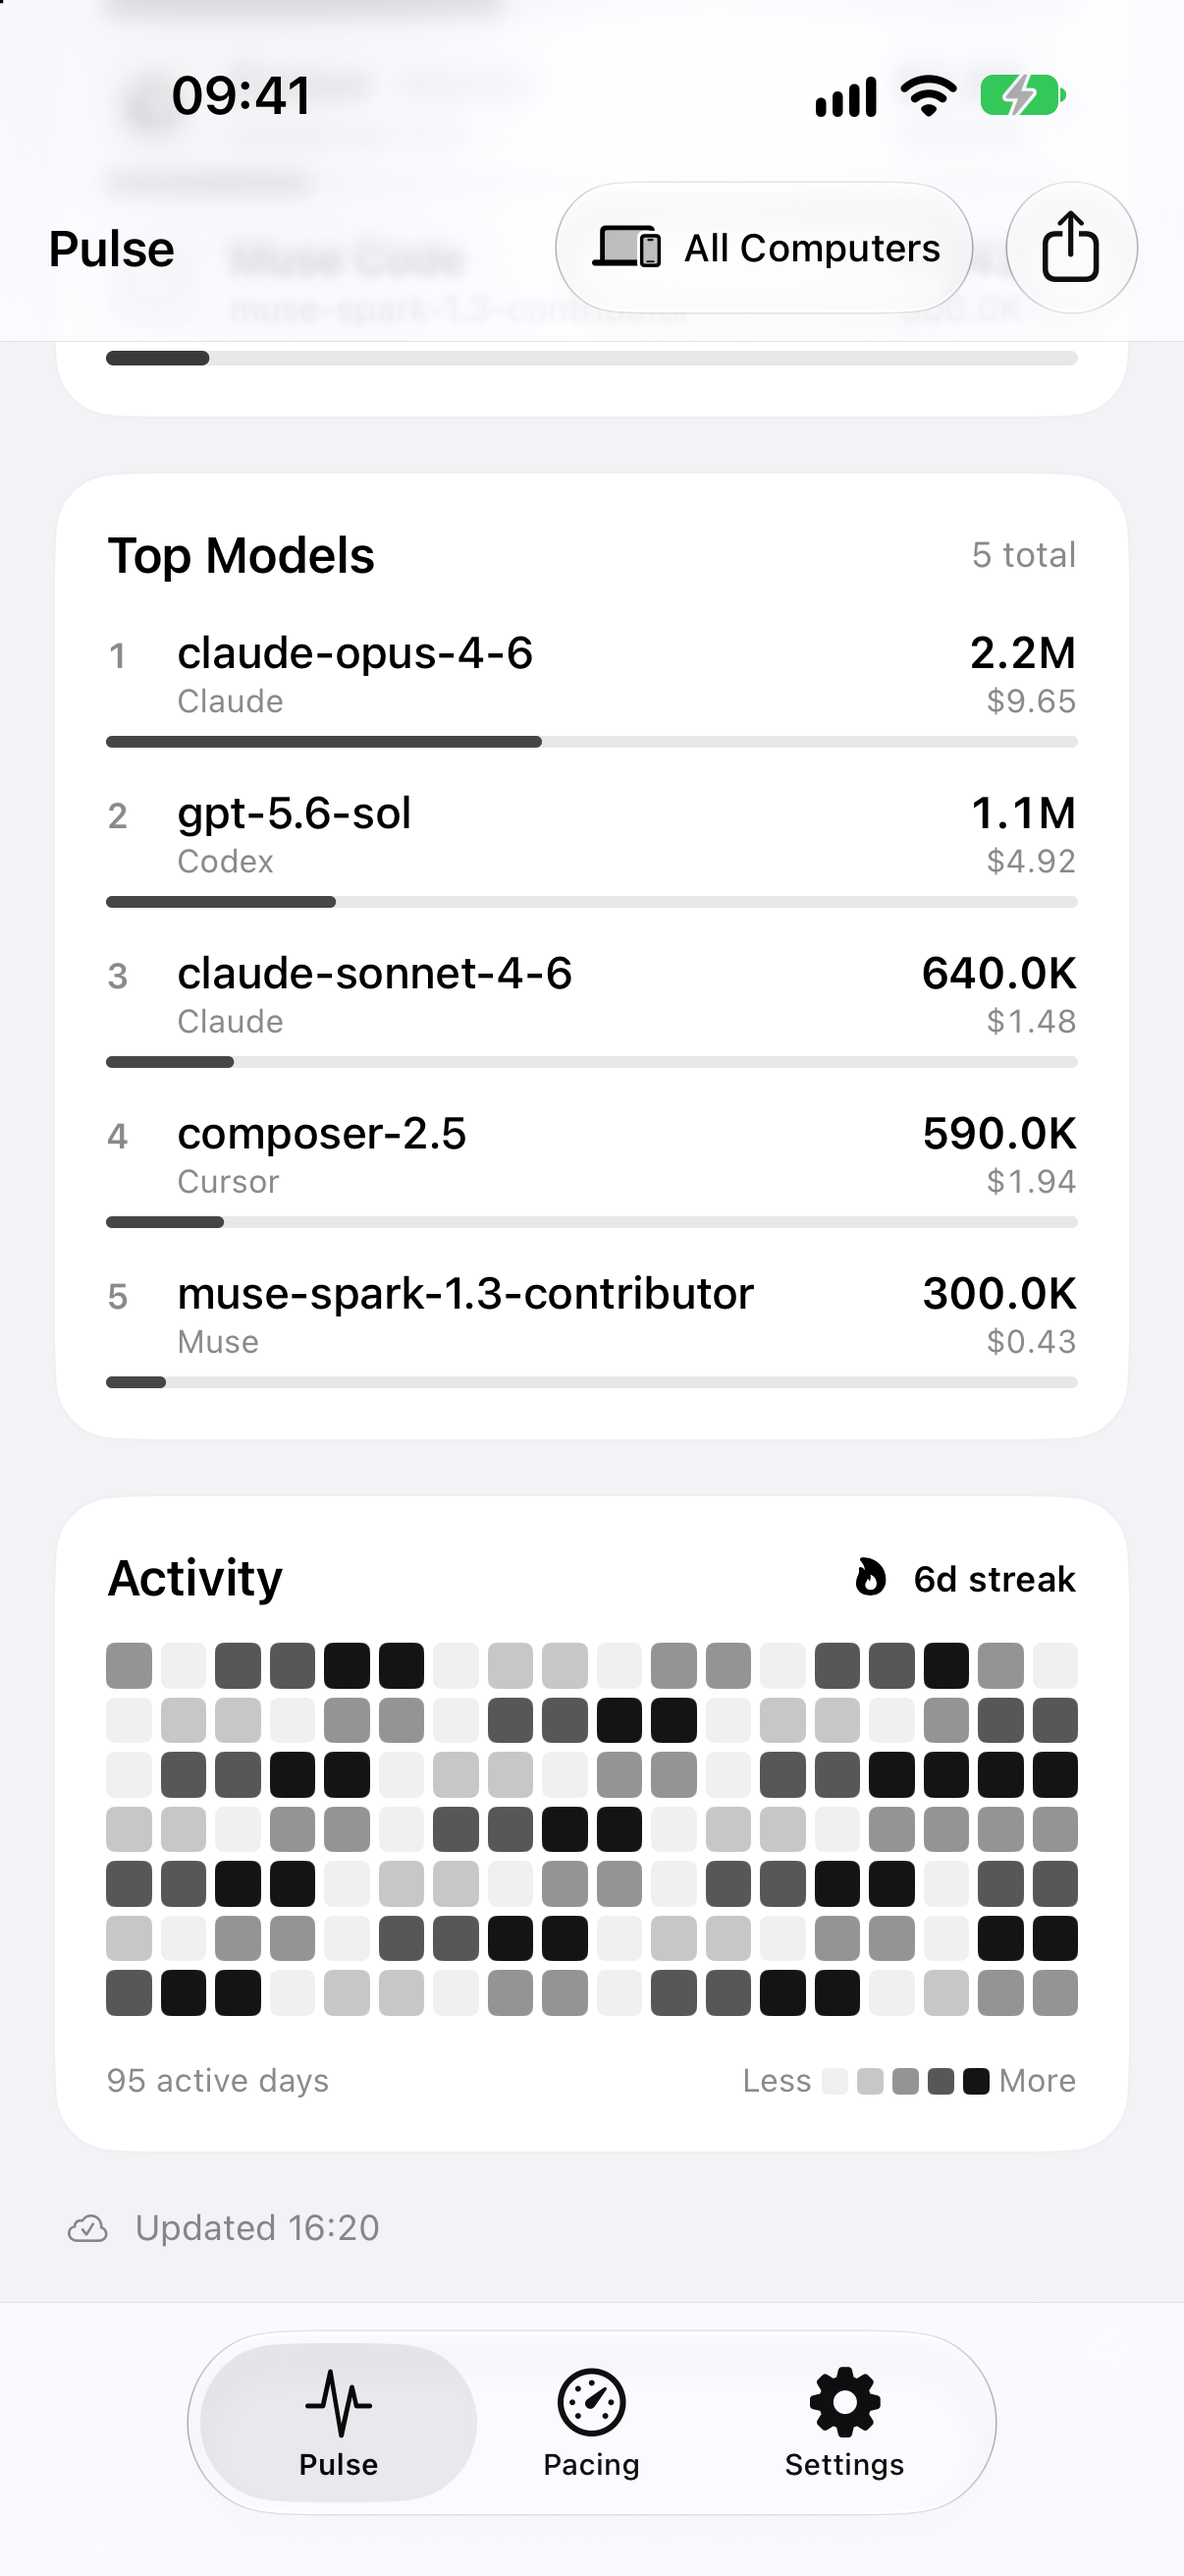
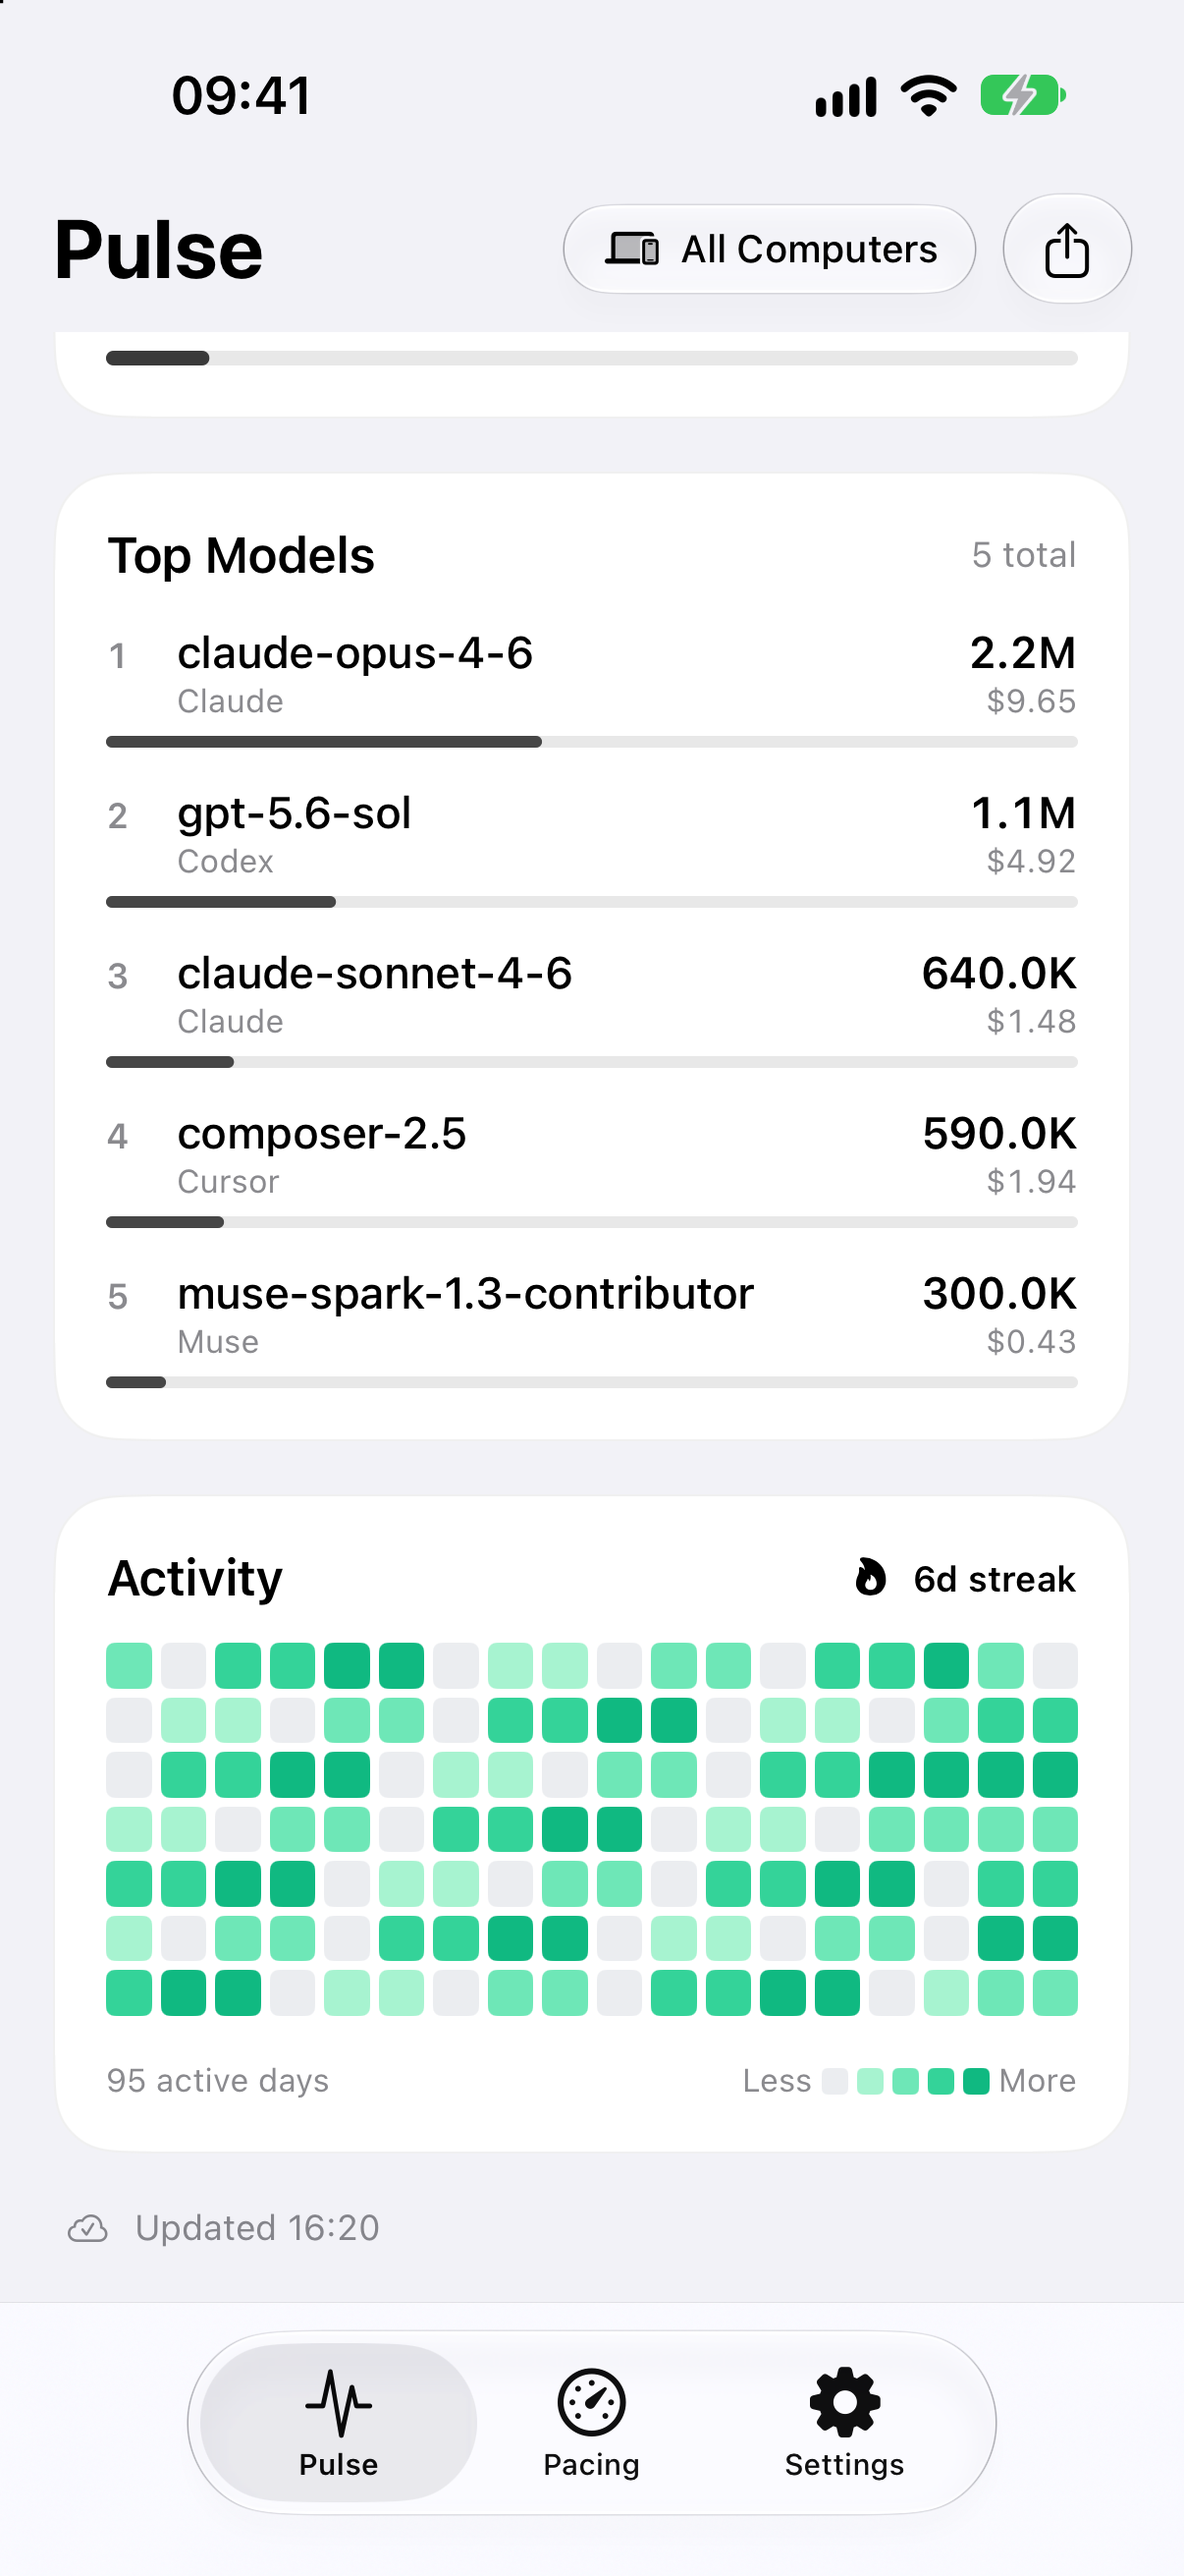
fix(ios): put tab titles on the same row as toolbar actions
Use a custom header instead of a large navigation title or a leading
toolbar item, so Pulse, Pacing & Limits, and Settings sit beside Share,
the computer filter, and spend targets. Restore Pulse Activity heatmap
greens to match the dashboard; leave Neon and Broadsheet share cards
unchanged.

diff --git a/TokenTrackerPhone/TokenTrackerPhone/Views/Components/GlassDesignSystem.swift b/TokenTrackerPhone/TokenTrackerPhone/Views/Components/GlassDesignSystem.swift
@@ -1,11 +1,13 @@
 import SwiftUI
+import UIKit
 
 // MARK: - Monochrome Palette
 
-/// Token Tracker on iPhone is black and white. Ink is the system label color,
-/// so it flips with Light / Dark Mode. Color appears only when it means
-/// something: orange when a target is close, red when it is reached or an
-/// action failed.
+/// Token Tracker on iPhone is black and white for chrome and typography.
+/// Ink is the system label color, so it flips with Light / Dark Mode.
+/// Color appears when it means something: the Activity heatmap uses the
+/// same emerald steps as the desktop dashboard, orange when a target is
+/// close, and red when it is reached or an action failed.
 enum Palette {
     static let ink = Color.primary
     static let warning = Color.orange
@@ -18,10 +20,28 @@ enum Palette {
         return ink
     }
 
-    /// Grayscale steps for stacked data (token composition, heatmap levels).
+    /// Grayscale steps for stacked data (token composition, share-neutral bars).
     static func step(_ index: Int) -> Color {
         let opacities: [Double] = [0.88, 0.58, 0.34, 0.18]
         return ink.opacity(opacities[min(max(index, 0), opacities.count - 1)])
+    }
+
+    /// Pulse Activity heatmap — same emerald ramps as dashboard
+    /// `ActivityHeatmap.jsx` (`HEATMAP_COLORS_LIGHT` / `HEATMAP_COLORS_DARK`).
+    /// Share-card heatmaps keep their own Neon and Broadsheet palettes.
+    static func heatmapLevel(_ level: Int) -> Color {
+        let index = min(max(level, 0), 4)
+        let light: [UInt32] = [0xEBEDF0, 0xA7F3D0, 0x6EE7B7, 0x34D399, 0x10B981]
+        let dark: [UInt32] = [0x121212, 0x065F46, 0x059669, 0x10B981, 0x34D399]
+        return Color(uiColor: UIColor { traits in
+            let hex = traits.userInterfaceStyle == .dark ? dark[index] : light[index]
+            return UIColor(
+                red: CGFloat((hex >> 16) & 0xFF) / 255,
+                green: CGFloat((hex >> 8) & 0xFF) / 255,
+                blue: CGFloat(hex & 0xFF) / 255,
+                alpha: 1
+            )
+        })
     }
 }
 
@@ -30,6 +50,62 @@ struct AppBackground: View {
     var body: some View {
         Color(.systemGroupedBackground)
             .ignoresSafeArea()
+    }
+}
+
+
+// MARK: - Screen header (title and actions on one row)
+
+/// Tab-root header. The system large title sits on a second row below
+/// toolbar buttons, and a leading `ToolbarItem` is clipped into a compact
+/// glass chip, so the title and actions live in this row instead.
+struct ScreenHeader<Actions: View>: View {
+    let title: String
+    @ViewBuilder var actions: Actions
+
+    init(title: String, @ViewBuilder actions: () -> Actions) {
+        self.title = title
+        self.actions = actions()
+    }
+
+    var body: some View {
+        HStack(alignment: .center, spacing: 12) {
+            Text(title)
+                .font(.title.weight(.bold))
+                .foregroundStyle(.primary)
+                .minimumScaleFactor(0.75)
+                .lineLimit(1)
+                .layoutPriority(1)
+                .accessibilityAddTraits(.isHeader)
+            Spacer(minLength: 8)
+            actions
+                .fixedSize(horizontal: true, vertical: false)
+        }
+        .padding(.horizontal, 18)
+        .padding(.top, 4)
+        .padding(.bottom, 10)
+        .background {
+            Color(.systemGroupedBackground)
+                .ignoresSafeArea(edges: .top)
+        }
+    }
+}
+
+extension ScreenHeader where Actions == EmptyView {
+    init(title: String) {
+        self.title = title
+        self.actions = EmptyView()
+    }
+}
+
+extension View {
+    /// Keep a navigation title for accessibility, but hide the system bar
+    /// so `ScreenHeader` can own the top row.
+    func hiddenSystemNavigationTitle(_ title: String) -> some View {
+        self
+            .navigationTitle(title)
+            .navigationBarTitleDisplayMode(.inline)
+            .toolbar(.hidden, for: .navigationBar)
     }
 }
 

diff --git a/TokenTrackerPhone/TokenTrackerPhone/Views/PulseView.swift b/TokenTrackerPhone/TokenTrackerPhone/Views/PulseView.swift
@@ -71,17 +71,15 @@ struct PulseView: View {
                 .scenarioScrollAnchor(proxy)
                 }
             }
-            .navigationTitle("Pulse")
-            .navigationBarTitleDisplayMode(.large)
-            .toolbar {
-                ToolbarItem(placement: .topBarTrailing) {
-                    deviceScopeMenu
-                }
-                ToolbarSpacer(.fixed, placement: .topBarTrailing)
-                ToolbarItem(placement: .topBarTrailing) {
-                    shareButton
+            .safeAreaInset(edge: .top, spacing: 0) {
+                ScreenHeader(title: "Pulse") {
+                    HStack(spacing: 10) {
+                        deviceScopeMenu
+                        shareButton
+                    }
                 }
             }
+            .hiddenSystemNavigationTitle("Pulse")
             .sheet(item: $selectedProvider) { provider in
                 ProviderDetailSheet(provider: provider, horizonTitle: workspace.horizon.fullTitle)
             }
@@ -129,6 +127,8 @@ struct PulseView: View {
                 Label("Share", systemImage: "square.and.arrow.up")
             }
         }
+        .labelStyle(.iconOnly)
+        .buttonStyle(.glass)
         .disabled(shareableSnapshot == nil || preparingShare)
         .accessibilityIdentifier("pulse.share")
     }
@@ -208,6 +208,7 @@ struct PulseView: View {
             }
             .accessibilityIdentifier("pulse.deviceMenu")
         }
+        .buttonStyle(.glass)
     }
 
     // MARK: - 1. Spend & Token Ledger
@@ -857,13 +858,7 @@ private struct HeatmapSurfaceCard: View {
     }
 
     private func levelColor(_ level: Int) -> Color {
-        switch min(max(level, 0), 4) {
-        case 0: return Color.primary.opacity(0.06)
-        case 1: return Color.primary.opacity(0.22)
-        case 2: return Color.primary.opacity(0.42)
-        case 3: return Color.primary.opacity(0.66)
-        default: return Color.primary.opacity(0.92)
-        }
+        Palette.heatmapLevel(level)
     }
 
     var body: some View {

diff --git a/TokenTrackerPhone/TokenTrackerPhone/Views/LimitsPacingView.swift b/TokenTrackerPhone/TokenTrackerPhone/Views/LimitsPacingView.swift
@@ -45,18 +45,19 @@ struct LimitsPacingView: View {
                 .scenarioScrollAnchor(proxy)
                 }
             }
-            .navigationTitle("Pacing & Limits")
-            .navigationBarTitleDisplayMode(.large)
-            .toolbar {
-                ToolbarItem(placement: .topBarTrailing) {
+            .safeAreaInset(edge: .top, spacing: 0) {
+                ScreenHeader(title: "Pacing & Limits") {
                     Button {
                         showAccountTargetSheet = true
                     } label: {
                         Label("Spend Targets", systemImage: "target")
                     }
+                    .labelStyle(.iconOnly)
+                    .buttonStyle(.glass)
                     .accessibilityIdentifier("limits.editTargets")
                 }
             }
+            .hiddenSystemNavigationTitle("Pacing & Limits")
             .sheet(isPresented: $showAccountTargetSheet) {
                 AccountSpendTargetsSheet()
             }

diff --git a/TokenTrackerPhone/TokenTrackerPhone/Views/SettingsView.swift b/TokenTrackerPhone/TokenTrackerPhone/Views/SettingsView.swift
@@ -41,8 +41,10 @@ struct SettingsView: View {
             .scrollEdgeEffectStyle(.hard, for: .bottom)
             .scenarioScrollAnchor(proxy)
             }
-            .navigationTitle("Settings")
-            .navigationBarTitleDisplayMode(.large)
+            .safeAreaInset(edge: .top, spacing: 0) {
+                ScreenHeader(title: "Settings")
+            }
+            .hiddenSystemNavigationTitle("Settings")
             .task {
                 await workspace.loadPublicProfileIfNeeded()
             }

diff --git a/TokenTrackerPhone/DESIGN.md b/TokenTrackerPhone/DESIGN.md
@@ -49,7 +49,8 @@ Targets, caps and renewal dates are stored only on the phone (`UserDefaults`).
 ## 4. Visual system
 
 - Monochrome. Ink is `Color.primary`, so it is black in Light Mode and white in Dark Mode. Surfaces are system grouped backgrounds. The accent color asset is black / white. There is no brand hue.
-- Color carries meaning only: orange when a target or cap passes 72%, red at 90% and for errors. Charts, share bars, token composition and the heatmap use grayscale steps of the label color.
+- Chrome and typography are monochrome. Color carries meaning: the Pulse Activity heatmap uses the dashboard's emerald steps; orange when a target or cap passes 72%; red at 90% and for errors. Token composition and other stacked charts stay grayscale. Share-card heatmaps keep the Neon and Broadsheet palettes.
+- Tab titles sit on the same row as trailing actions (Share, computer filter, spend targets), in a custom header — not a system large title on a second row, and not a leading toolbar item (iOS clips those into a compact glass chip).
 - Liquid Glass is for controls: tab bar, segmented horizon / meter controls (`GlassSegmentedControl`), toolbar menus, sign-in and secondary buttons, notices. Data sits on opaque `secondarySystemGroupedBackground` cards so numbers keep contrast. Primary actions use `.glassProminent` tinted with the label color (black button, white text in Light Mode, the reverse in Dark Mode).
 - Product mark: the real app icon artwork (`TokenTrackerMark` asset, copied from `TokenTrackerBar/AppIcon-iOS-Default-1024x1024@1x.png`) on sign-in, the lock screen and Cloud-required states. It is never redrawn.
 - Provider marks: the dashboard's own assets. `scripts/sync-brand-assets.mjs` reads `PROVIDER_LOGO_MAP`, `PROVIDER_LOGO_CLASS_MAP` and `PROVIDER_ICON_MAP` from `dashboard/src/ui/dashboard/components/ProviderIcon.jsx`, copies the files from `dashboard/public/brand-logos/` (and converts the inline mono SVGs), and generates `ProviderMarkCatalog.generated.swift`. Lookup follows `ProviderIcon()`: logo file, then the `pi-*` fallback, then the inline mono mark. Marks the dashboard draws in `currentColor` or re-inks per theme become template images tinted with the label color. Sources with no mark in the product (Muse Code today) get the dashboard's dashed placeholder circle, never an SF Symbol stand-in.
